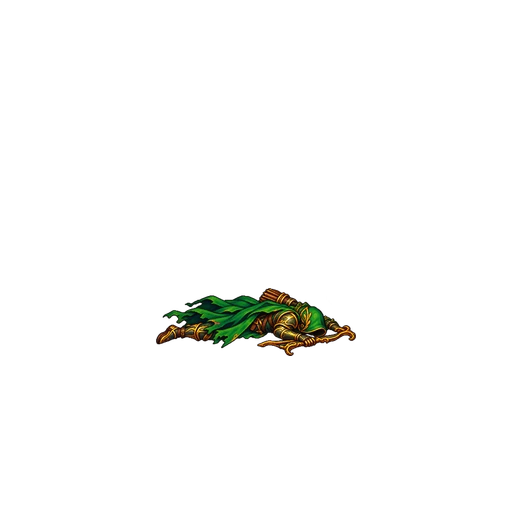
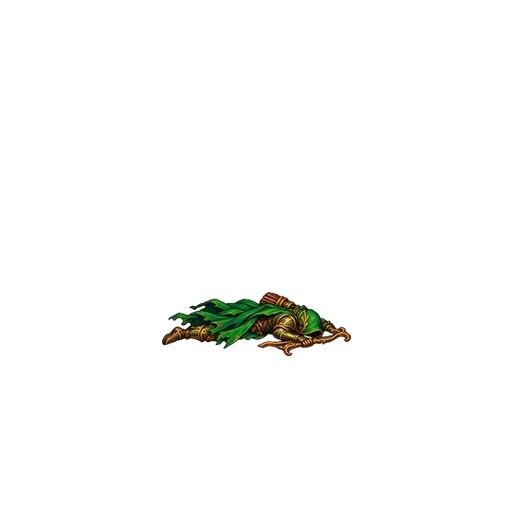
Audit all RPG character poses and clean remaining idle clutter (v0.0952)

Changed region(s): [[0.2812, 0.5625, 0.6875, 0.6875]]

diff --git a/rpg/src/character-attacks.js b/rpg/src/character-attacks.js
@@ -62,7 +62,7 @@ window.RPG_CHARACTER_ATTACKS={
   "tile": 512,
   "visible": 200,
   "facing": "right",
-  "idleHeight": 200,
+  "idleHeight": 190,
   "frameHeights": [
    188,
    188,
@@ -76,7 +76,7 @@ window.RPG_CHARACTER_ATTACKS={
   "tile": 512,
   "visible": 200,
   "facing": "right",
-  "idleHeight": 200,
+  "idleHeight": 189,
   "frameHeights": [
    176,
    173,

diff --git a/app/app-version.ts b/app/app-version.ts
@@ -1,3 +1,3 @@
 // Increment APP_VERSION_NUMBER by 8 for every Chess Burger release deployment.
-export const APP_VERSION_NUMBER = 944;
+export const APP_VERSION_NUMBER = 952;
 export const APP_VERSION = `0.${String(APP_VERSION_NUMBER).padStart(4,"0")}`;
